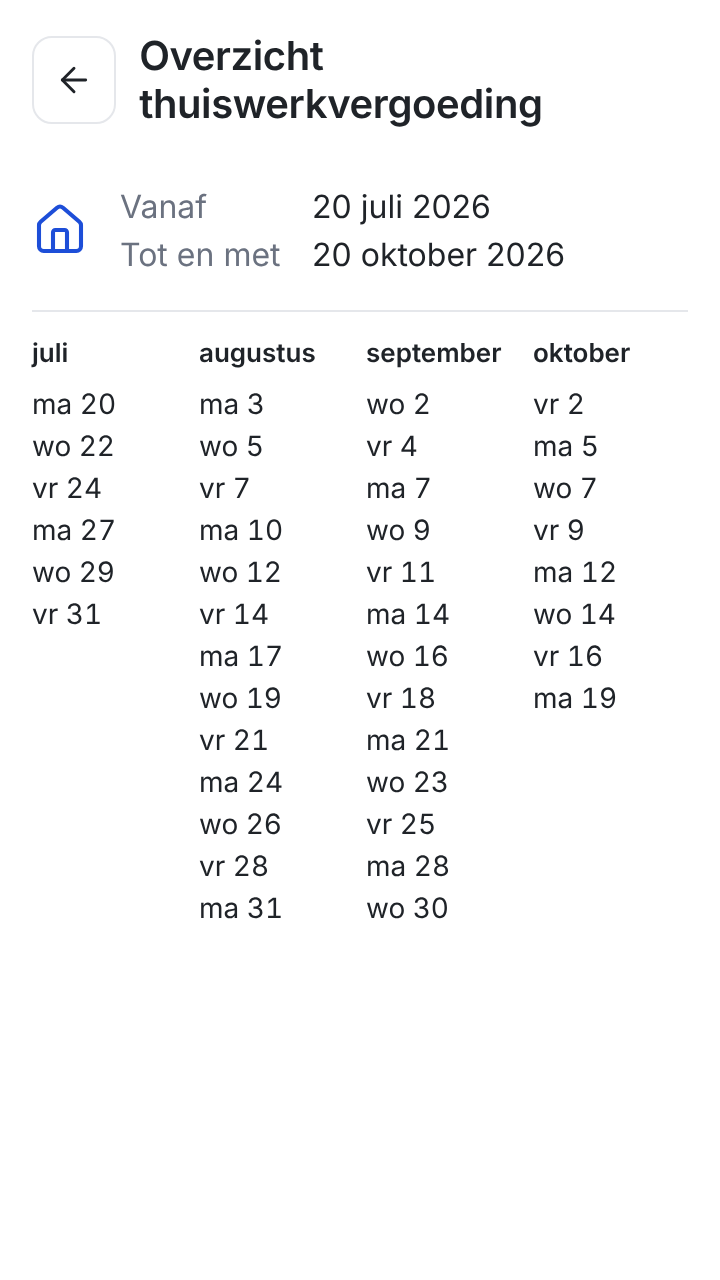
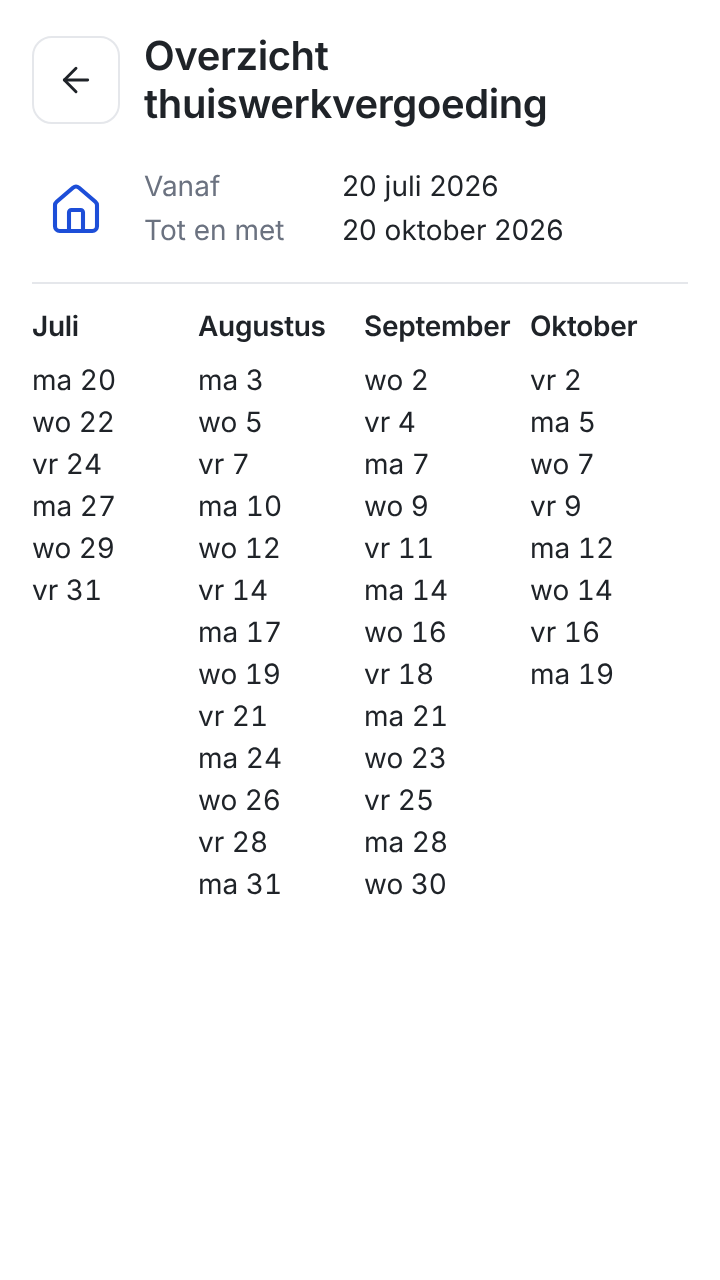
Opmaak overzicht thuiswerkvergoeding verfijnd (SPEC v1.3)
Maandnamen met hoofdletter en iets groter, kolommen even breed,
periode kleiner en uitgelijnd met de titel.

Claude-Session: https://claude.ai/code/session_01HkgF8UVQLVV5ARiTjKdSa4

diff --git a/src/HomeOffice.tsx b/src/HomeOffice.tsx
@@ -2,6 +2,10 @@ import { ArrowLeft, House } from 'lucide-react'
 import { addDays, compactDay, dateKey, fullDate, monthName, overviewPeriod } from './dates'
 import type { Registrations } from './storage'
 
+function capitalize(text: string): string {
+  return text.charAt(0).toUpperCase() + text.slice(1)
+}
+
 interface Props {
   registrations: Registrations
   today: Date
@@ -31,7 +35,7 @@ export default function HomeOffice({ registrations, today, onClose }: Props) {
       </header>
 
       <div className="period">
-        <House size={28} strokeWidth={1.75} aria-label="Thuis" />
+        <House className="period-icon" size={28} strokeWidth={1.75} aria-label="Thuis" />
         <dl>
           <div>
             <dt>Vanaf</dt>
@@ -47,7 +51,7 @@ export default function HomeOffice({ registrations, today, onClose }: Props) {
       <div className="months">
         {columns.map(({ month, days }) => (
           <section key={dateKey(month)} className="month" aria-label={monthName(month)}>
-            <h2>{monthName(month)}</h2>
+            <h2>{capitalize(monthName(month))}</h2>
             {days.length > 0 ? (
               <ul>
                 {days.map((d) => (

diff --git a/src/index.css b/src/index.css
@@ -74,6 +74,7 @@ h1 {
 }
 
 .icon-button {
+  flex-shrink: 0;
   display: grid;
   place-items: center;
   width: 44px;
@@ -230,11 +231,16 @@ h1.wrap {
 }
 
 .period {
-  display: flex;
+  display: grid;
+  grid-template-columns: 44px 1fr;
   align-items: center;
-  gap: 16px;
-  padding: 12px 0 16px;
+  column-gap: 12px;
+  padding: 4px 0 16px;
   border-bottom: 1px solid var(--line);
+}
+
+.period-icon {
+  justify-self: center;
   color: var(--accent);
 }
 
@@ -242,7 +248,7 @@ h1.wrap {
   display: grid;
   gap: 2px;
   margin: 0;
-  color: var(--text);
+  font-size: 0.875rem;
 }
 
 .period dl div {
@@ -251,7 +257,7 @@ h1.wrap {
 }
 
 .period dt {
-  min-width: 5.5em;
+  min-width: 6.5em;
   color: var(--muted);
 }
 
@@ -261,14 +267,16 @@ h1.wrap {
 
 .months {
   display: grid;
-  grid-template-columns: repeat(4, 1fr);
-  gap: 6px;
+  grid-template-columns: repeat(4, minmax(0, 1fr));
+  gap: 4px;
   padding-top: 12px;
 }
 
 .month h2 {
   margin: 0 0 6px;
-  font-size: 0.8125rem;
+  font-size: 0.875rem;
+  letter-spacing: -0.01em;
+  white-space: nowrap;
 }
 
 .month ul {

diff --git a/src/HomeOffice.test.tsx b/src/HomeOffice.test.tsx
@@ -53,6 +53,12 @@ describe('AC20: overzicht thuiswerkvergoeding', () => {
     expect(column('augustus').getAllByRole('listitem').map((li) => li.textContent)).toEqual(['ma 3', 'vr 28'])
     expect(column('september').queryAllByRole('listitem')).toHaveLength(0)
     expect(column('september').getByText('–')).toBeInTheDocument()
+    expect(screen.getAllByRole('heading', { level: 2 }).map((h) => h.textContent)).toEqual([
+      'Juli',
+      'Augustus',
+      'September',
+      'Oktober',
+    ])
     expect(column('oktober').getAllByRole('listitem').map((li) => li.textContent)).toEqual(['do 1', 'di 20'])
   })
 

diff --git a/SPEC.md b/SPEC.md
@@ -1,7 +1,7 @@
 # Specificatie: Woon-werkvervoer registreren
 
 Status: **goedgekeurd door Greco op 20 oktober 2026**
-Versie: 1.2 (20 oktober 2026): overzicht thuiswerkvergoeding, op verzoek van Greco
+Versie: 1.3 (20 oktober 2026): opmaak overzicht thuiswerkvergoeding verfijnd, op verzoek van Greco
 
 ## 1. Doel
 
@@ -35,7 +35,7 @@ Eén persoon (Greco) die de app op zijn telefoon gebruikt, via een snelkoppeling
 | F10 | Backupmap kiezen | In de instellingen kies je met de mappenkiezer van je telefoon een map waar backups worden opgeslagen en waaruit ze worden ingelezen. De app onthoudt die map en toont de naam. |
 | F11 | Backup maken | De knop "Backup maken" slaat alle ingevulde dagen op als één bestand in de backupmap, met de datum in de naam, bijvoorbeeld `woon-werkvervoer-backup-2026-10-20.json`. Is er geen map gekozen of kan de telefoon geen map onthouden, dan komt het bestand in de map Downloads. |
 | F12 | Backup inlezen | De knop "Backup inlezen" opent de bestandskiezer in de backupmap, zodat je een specifieke backup kiest. Na een bevestiging vervangt de inhoud van de backup alle huidige keuzes. Een bestand dat geen geldige backup is, wordt geweigerd met een duidelijke melding en verandert niets. |
-| F15 | Overzicht thuiswerkvergoeding | Een knop met het thuis-icoon rechtsboven, naast het tandwiel, opent het scherm "Overzicht thuiswerkvergoeding". Het toont standaard alle dagen waarop Thuis is gekozen, van precies 3 maanden geleden tot en met vandaag (op 20 oktober dus vanaf 20 juli; bestaat die dag niet, zoals 31 februari, dan de laatste dag van die maand). Bovenaan staan het thuis-icoon, de vanaf-datum en de tot-datum. Daaronder staan heel compact de datums in kolommen: elke kalendermaand een eigen kolom (meestal 4, omdat de periode in een maand halverwege begint; Greco koos hiervoor boven precies 3 kolommen), de oudste maand links, met de maandnaam erboven. Een maand zonder thuisdagen toont een streepje. "Terug" brengt je weer naar de week. |
+| F15 | Overzicht thuiswerkvergoeding | Een knop met het thuis-icoon rechtsboven, naast het tandwiel, opent het scherm "Overzicht thuiswerkvergoeding". Het toont standaard alle dagen waarop Thuis is gekozen, van precies 3 maanden geleden tot en met vandaag (op 20 oktober dus vanaf 20 juli; bestaat die dag niet, zoals 31 februari, dan de laatste dag van die maand). Bovenaan staan het thuis-icoon, de vanaf-datum en de tot-datum. Daaronder staan heel compact de datums in kolommen: elke kalendermaand een eigen kolom (meestal 4, omdat de periode in een maand halverwege begint; Greco koos hiervoor boven precies 3 kolommen), de oudste maand links, met de maandnaam erboven. Een maand zonder thuisdagen toont een streepje. Opmaak: de vanaf- en tot-datum in kleinere tekst, met de labels uitgelijnd met de titel van het overzicht; de maandnamen met een hoofdletter (bijv. "Augustus") en iets groter dan de datums; alle kolommen even breed. "Terug" brengt je weer naar de week. |
 | F8 | Installeren | De app is een progressive web app (PWA): Chrome biedt "App installeren" aan, waarna de app als gewone app tussen je apps staat en schermvullend opent, zonder adresbalk. |
 | F13 | Offline gebruiken | Na de eerste keer openen werkt de app ook zonder internetverbinding: openen, kiezen, bladeren, instellingen en backups. |
 | F14 | Updates | Staat er een nieuwe versie online, dan haalt de app die op de achtergrond op zodra er internet is. De nieuwe versie is actief de volgende keer dat je de app opent. |
